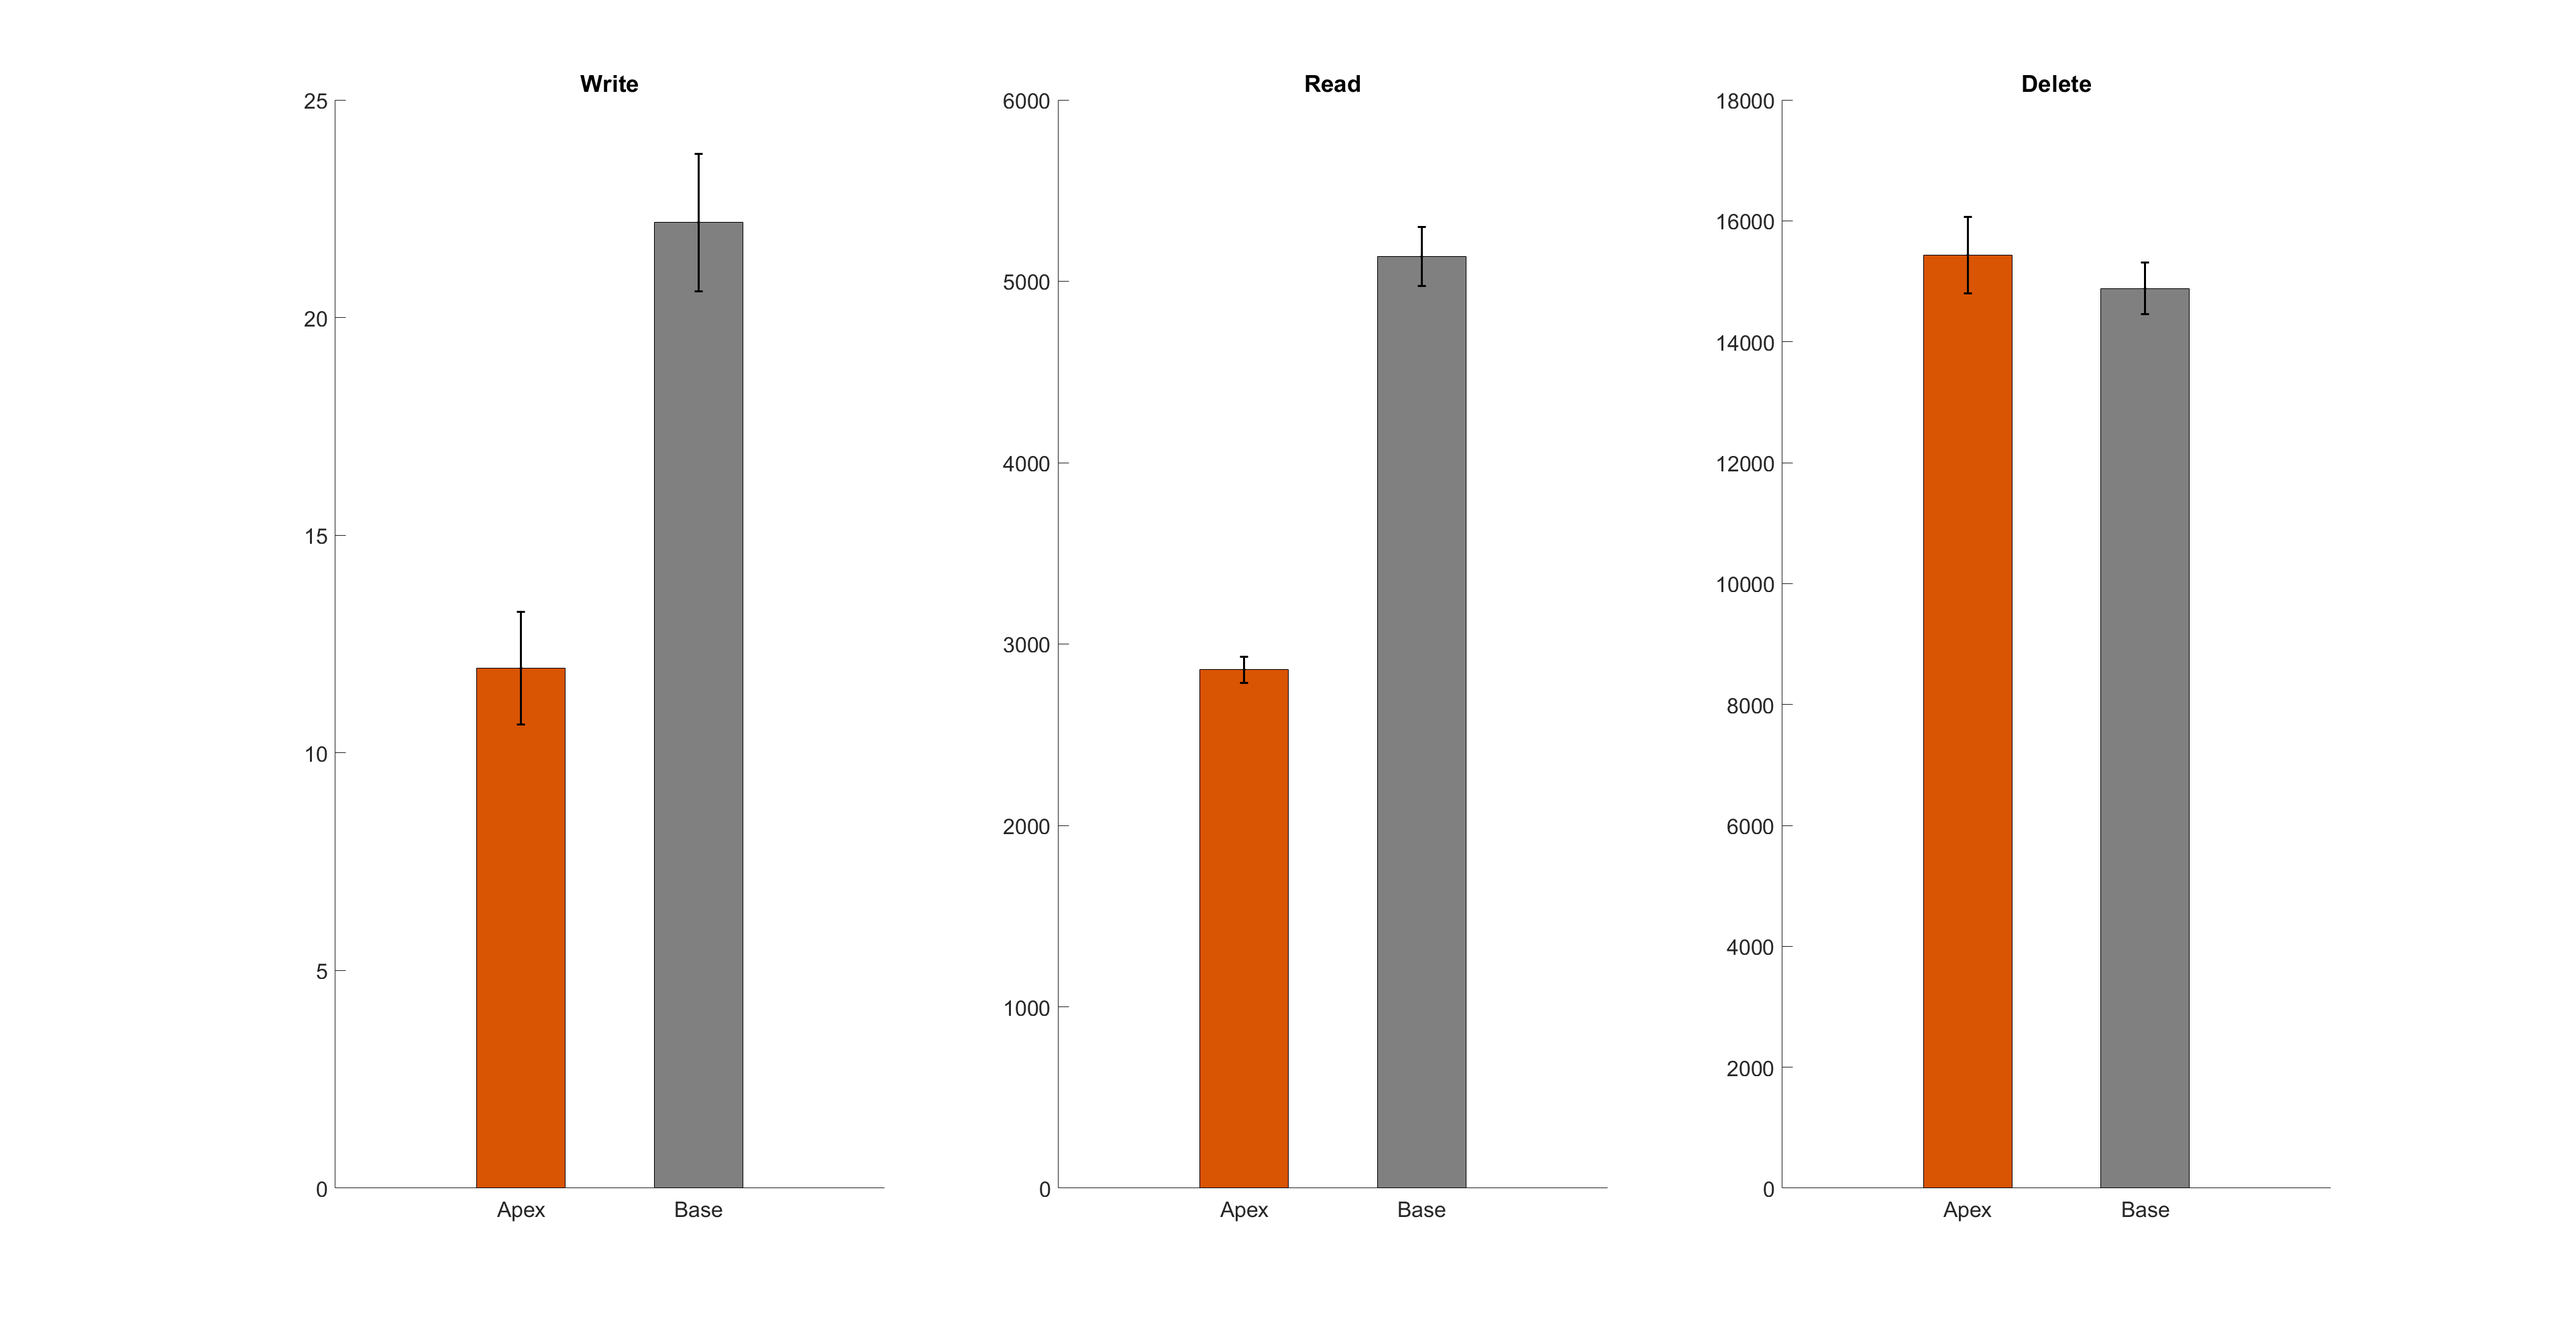
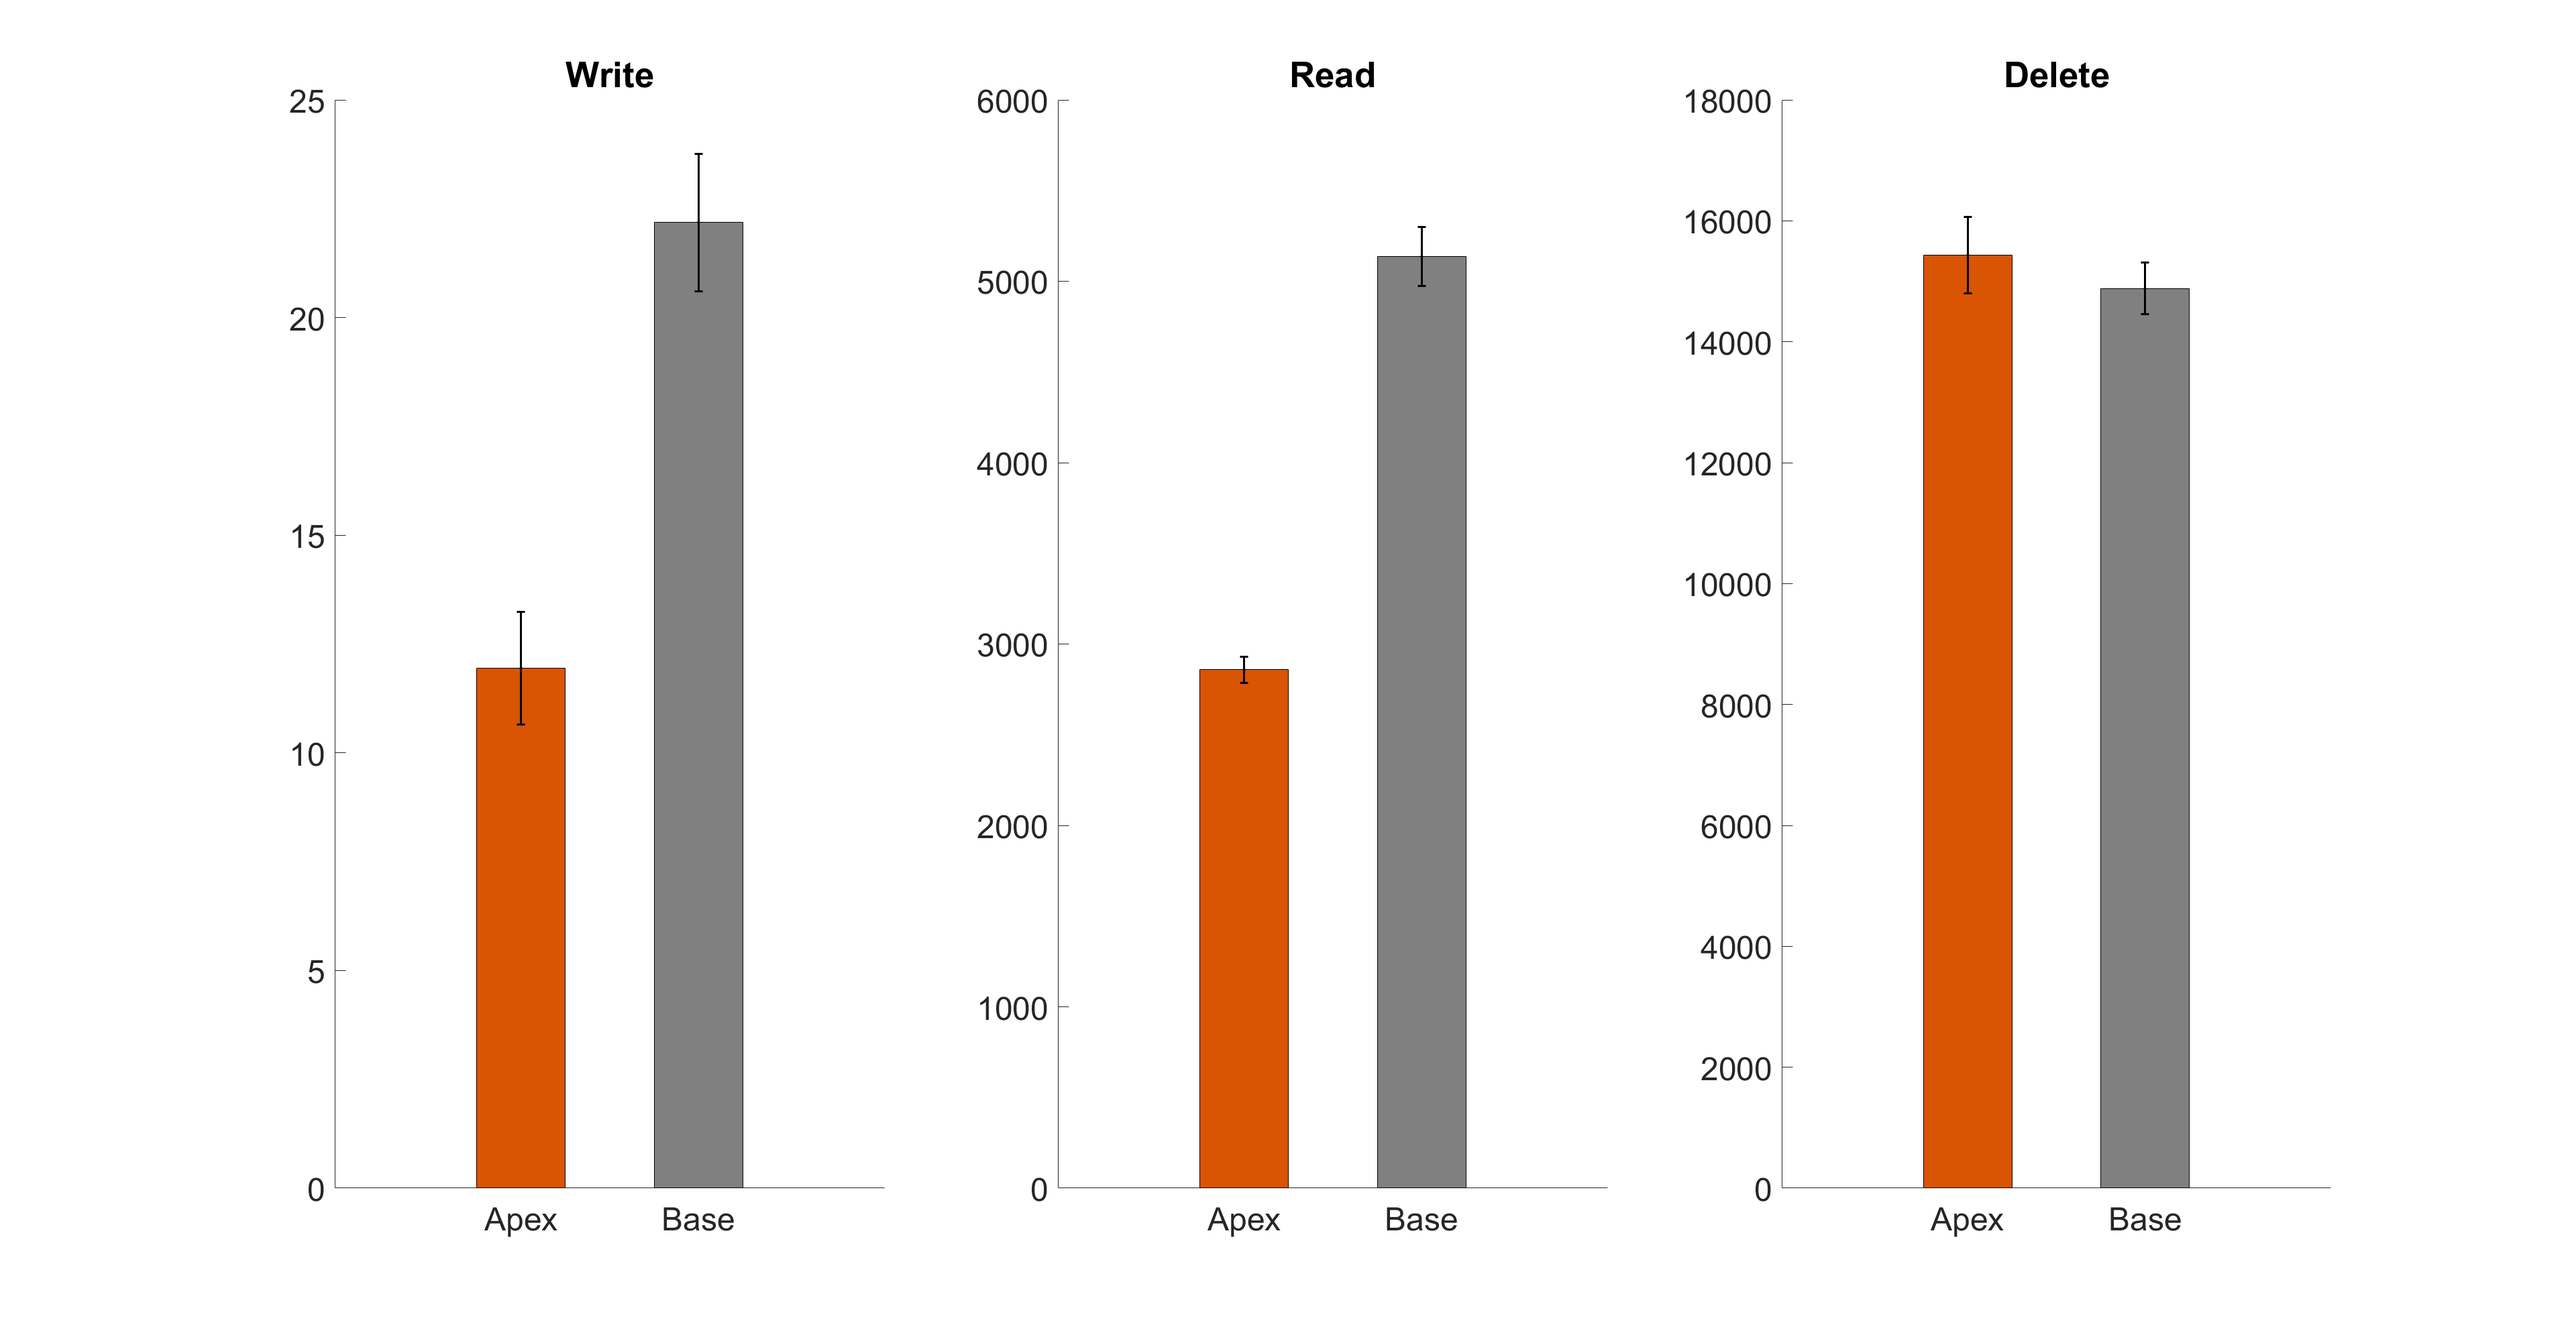
updated graphs

diff --git a/j_apex/results/results.m b/j_apex/results/results.m
@@ -87,7 +87,7 @@ for p=1:3
         s(i) = subplot(1, 3, i);
         ax = gca;
         ax.XTick = [1 2];
-        ax.FontSize = 16;
+        ax.FontSize = 24;
         hold on
         b1 = bar([0, stub_fps(p, i)], 0.5, 'FaceColor', [0.502 0.502 0.502]);
         b2 = bar([apex_fps(p, i), 0], 0.5, 'FaceColor', [0.85 0.33 0.01]);
